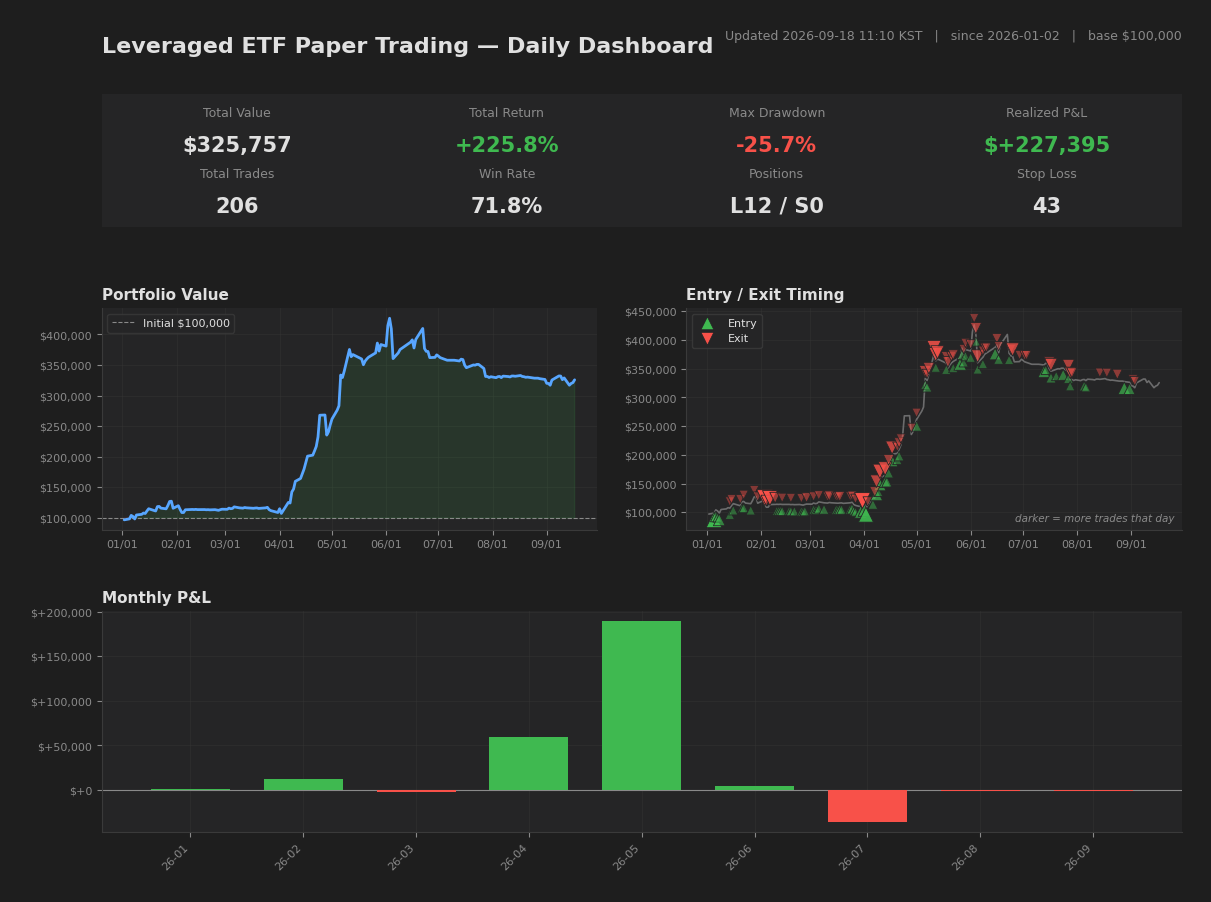
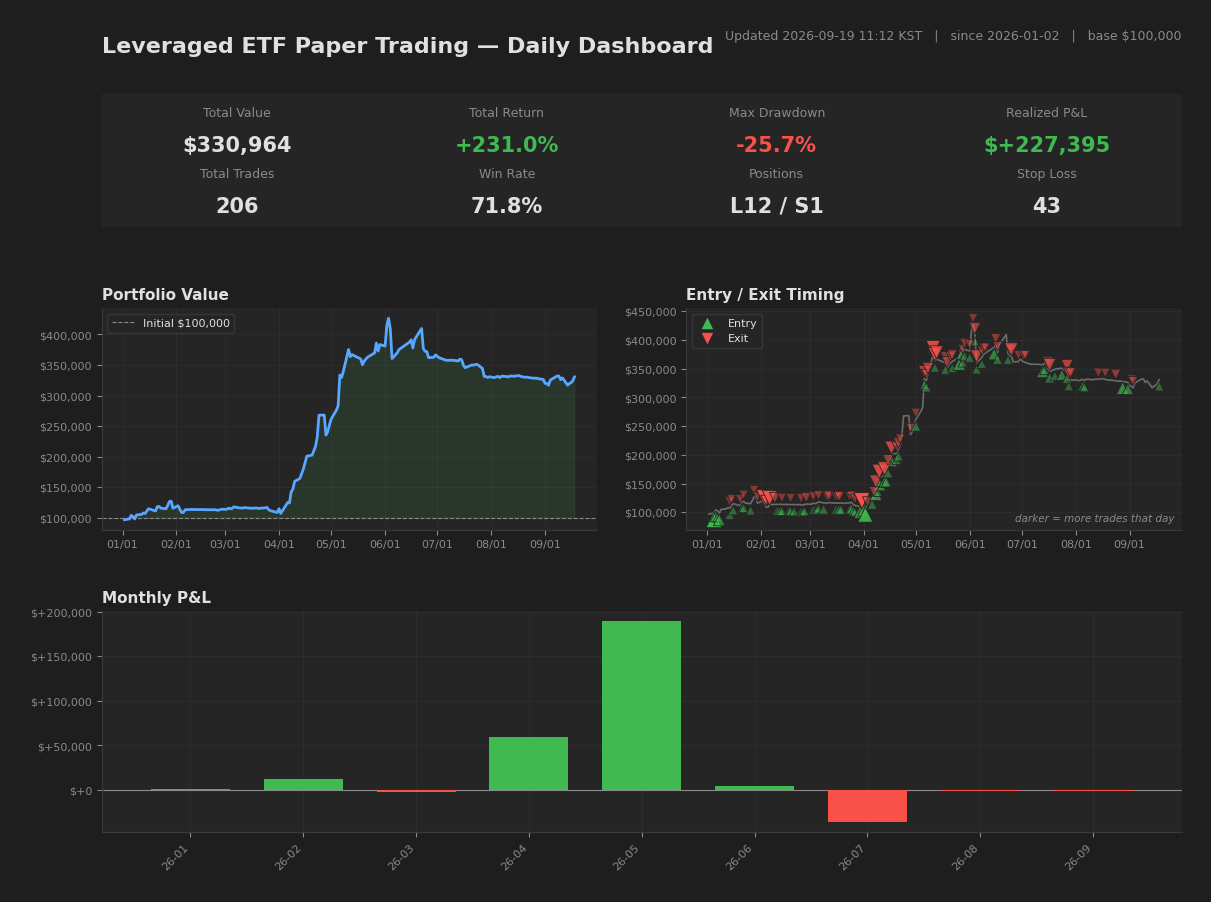
[2026-09-18] Close
Portfolio: $330,964 (+231.0%)
Positions: 13 (L12 S1)
Cumulative: 148/206 wins, P&L: $+227,395
Entries: 1

diff --git a/README.md b/README.md
@@ -20,7 +20,7 @@ Drawdown control vs. benchmark. While the benchmark experienced a maximum drawdo
 
 <!-- METRICS:BEGIN (auto-generated by snapshot_backup.py after each market close; do not edit by hand) -->
 - Maximum drawdown: **-25.68%** (peak 2026-06-03 -> trough 2026-09-03, recovered since)
-- As of **2026-09-17** market close. Updated automatically after each close.
+- As of **2026-09-18** market close. Updated automatically after each close.
 <!-- METRICS:END -->
 
 Execution costs. Because the strategy holds positions over multi-day periods with low turnover, the impact of slippage and commissions is designed to be limited rather than a primary driver of results.
